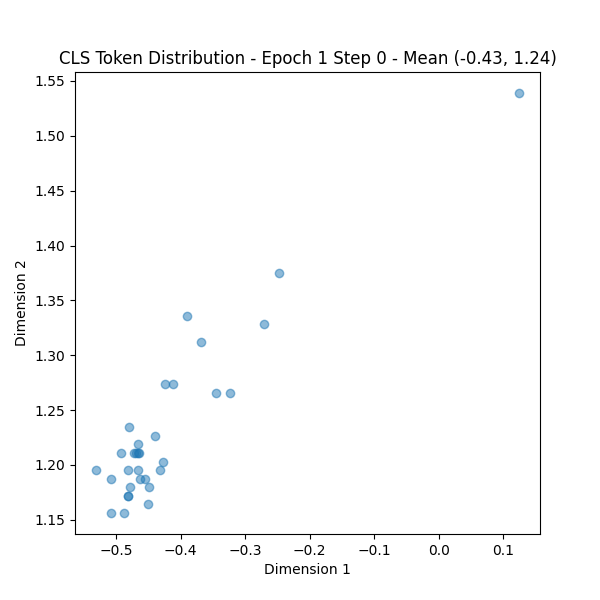
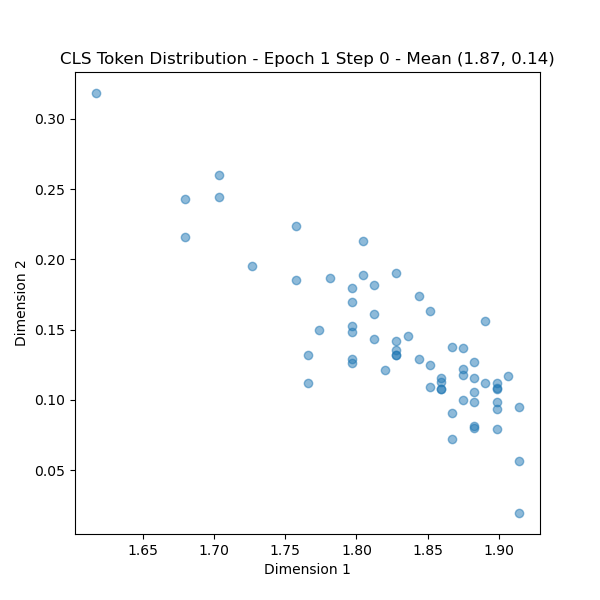
added freq pos emb

diff --git a/models/transformer.py b/models/transformer.py
@@ -171,6 +171,18 @@ class ViT(tf.keras.Model):
             name="mask_token",
         )
         
+        # number of rows and cols of patches
+        self.num_row_patch = (config.image_height - config.patch_overlap) // (config.patch_height - config.patch_overlap)
+        self.num_col_patch = (config.image_width - config.patch_overlap) // (config.patch_width - config.patch_overlap)
+        
+        # initialize frequency positional embedding, each horizontal band of patch gets same frequency embedding
+        self.freq_position_embedding = self.add_weight(
+            shape=(1, self.num_row_patch, 1, config.hidden_dim),
+            initializer=tf.keras.initializers.TruncatedNormal(stddev=0.02),
+            trainable=True,
+            name="freq_position_embedding",
+        )
+        
         # validate patching parameters
         ph, pw, po = self.config.patch_height, self.config.patch_width, self.config.patch_overlap
         assert (self.config.image_height - po) % (ph - po) == 0, "Image height not compatible with patch height and overlap"
@@ -198,6 +210,8 @@ class ViT(tf.keras.Model):
         batch_size = tf.shape(patches)[0]
         num_row_patches = tf.shape(patches)[1]
         num_col_patches = tf.shape(patches)[2]
+        tf.debugging.assert_equal(num_row_patches, self.num_row_patch, "Number of row patches mismatch")
+        tf.debugging.assert_equal(num_col_patches, self.num_col_patch, "Number of column patches mismatch")
         # tf.print(tf.shape(patches))
         # patches now has shape (batch_size * V, num_row_patches, num_col_patches, patch_height * patch_width * num_channels)
         
@@ -212,12 +226,20 @@ class ViT(tf.keras.Model):
         
         x = tf.reshape(patches, [tf.shape(patches)[0], tf.shape(patches)[1] * tf.shape(patches)[2], tf.shape(patches)[3]])  # flatten patches
         x = self.linear_projection(x)  # project to hidden_dim
+        
         # x shape: (batch_size * V, num_patches, hidden_dim)
         if training: # mask patches
             mask = mask_patches(batch_size, num_row_patches, num_col_patches, self.config.G, self.config.V)
             mask |= mask_timeframe(batch_size, num_row_patches, num_col_patches, self.config.G, self.config.V)
             x = tf.where(mask, tf.broadcast_to(self.mask_token, tf.shape(x)), x)
-            
+        
+        # add frequency positional embedding
+        # expand to (1, num_row_patches * num_col_patches, hidden_dim)
+        freq_position_embedding_expanded = tf.tile(self.freq_position_embedding, [1, 1, num_col_patches, 1])
+        # flatten 
+        freq_position_embedding_expanded = tf.reshape(freq_position_embedding_expanded, [1, num_row_patches * num_col_patches, self.config.hidden_dim])
+        x += freq_position_embedding_expanded  # broadcasting addition
+        
         # prepend cls token to the sequence
         cls_tokens = tf.broadcast_to(self.cls_token, [batch_size, 1, self.config.hidden_dim])
         x = tf.concat([cls_tokens, x], axis=1)  # (batch_size, num_patches + 1, hidden_dim)
@@ -308,13 +330,13 @@ class SingleHeadAttention(tf.keras.layers.Layer):
         self.max_time_distance = 2 * self.num_patch_per_col - 1 # relative position bias for time dimension
         self.attention_bias_table = self.add_weight(
             shape=(2 * self.max_time_distance - 1,),
-            initializer=tf.keras.initializers.Zeros(),
+            initializer=tf.keras.initializers.TruncatedNormal(stddev=0.02),
             trainable=True,
             name="time_attention_bias_table",
         )
         self.cls_token_bias_table = self.add_weight(
             shape=(self.num_patch_per_col * self.num_patch_per_row + 1,),
-            initializer=tf.keras.initializers.Zeros(),
+            initializer=tf.keras.initializers.TruncatedNormal(stddev=0.02),
             trainable=True,
             name="cls_token_bias_table",
         )

diff --git a/train.py b/train.py
@@ -55,8 +55,8 @@ with strategy.scope():
 # ============================================================================== 
 with strategy.scope():
     # Initialize Model
-    # model = ViT(CONFIG)
-    model = ViT_Ti(CONFIG)
+    model = ViT(CONFIG)
+    # model = ViT_Ti(CONFIG)
     probe = LinearProbe(input_dim=CONFIG.hidden_dim, num_classes=AUDIOSET_NUM_CLASSES)
     # Initialize Optimizer
     steps_per_epoch = tot_num_batches
@@ -70,7 +70,13 @@ with strategy.scope():
         warmup_steps=warmup_steps
     )
 
-    optimizer = tf.keras.optimizers.AdamW(learning_rate=lr_warmup_decayed_fn, weight_decay=1e-2)
+    optimizer = tf.keras.optimizers.AdamW(
+        learning_rate=lr_warmup_decayed_fn, 
+        weight_decay=1e-2,
+        beta_1=0.9,
+        beta_2=0.999,
+        global_clipnorm=1.0
+    )
     
     # Initialize Loss
     loss_fn = LeJEPA(G=NUM_GLOBAL_VIEWS, V=TOTAL_VIEWS, lambd=LAMBDA_SIGREG)

diff --git a/models/loss.py b/models/loss.py
@@ -150,7 +150,7 @@ class SIGReg(tf.keras.losses.Loss):
         
         # Aggregate results (mean over slices)
         m = tf.reduce_mean(stats)
-        tf.print("SIGReg loss:", m, output_stream=sys.stdout)
+        # tf.print("SIGReg loss:", m, output_stream=sys.stdout)
         return m
     
     
